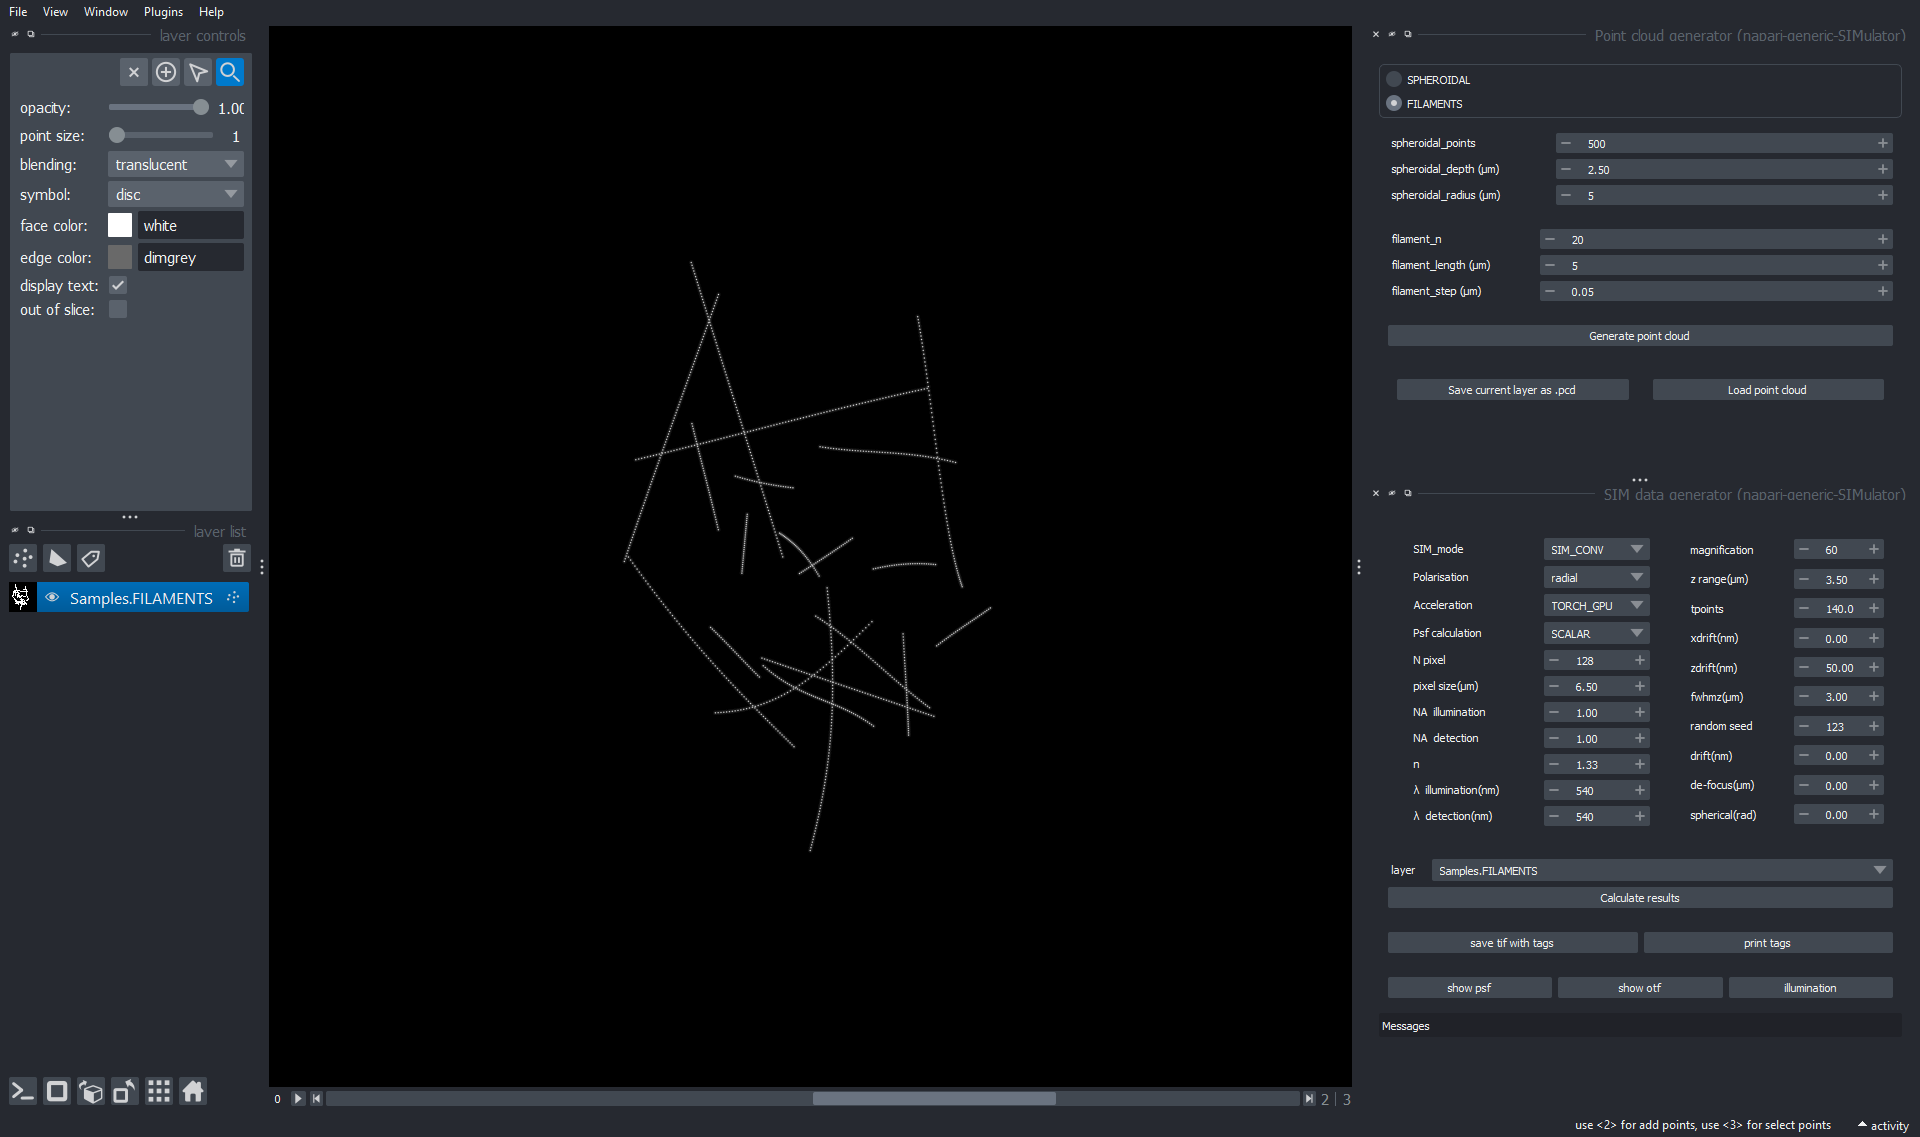
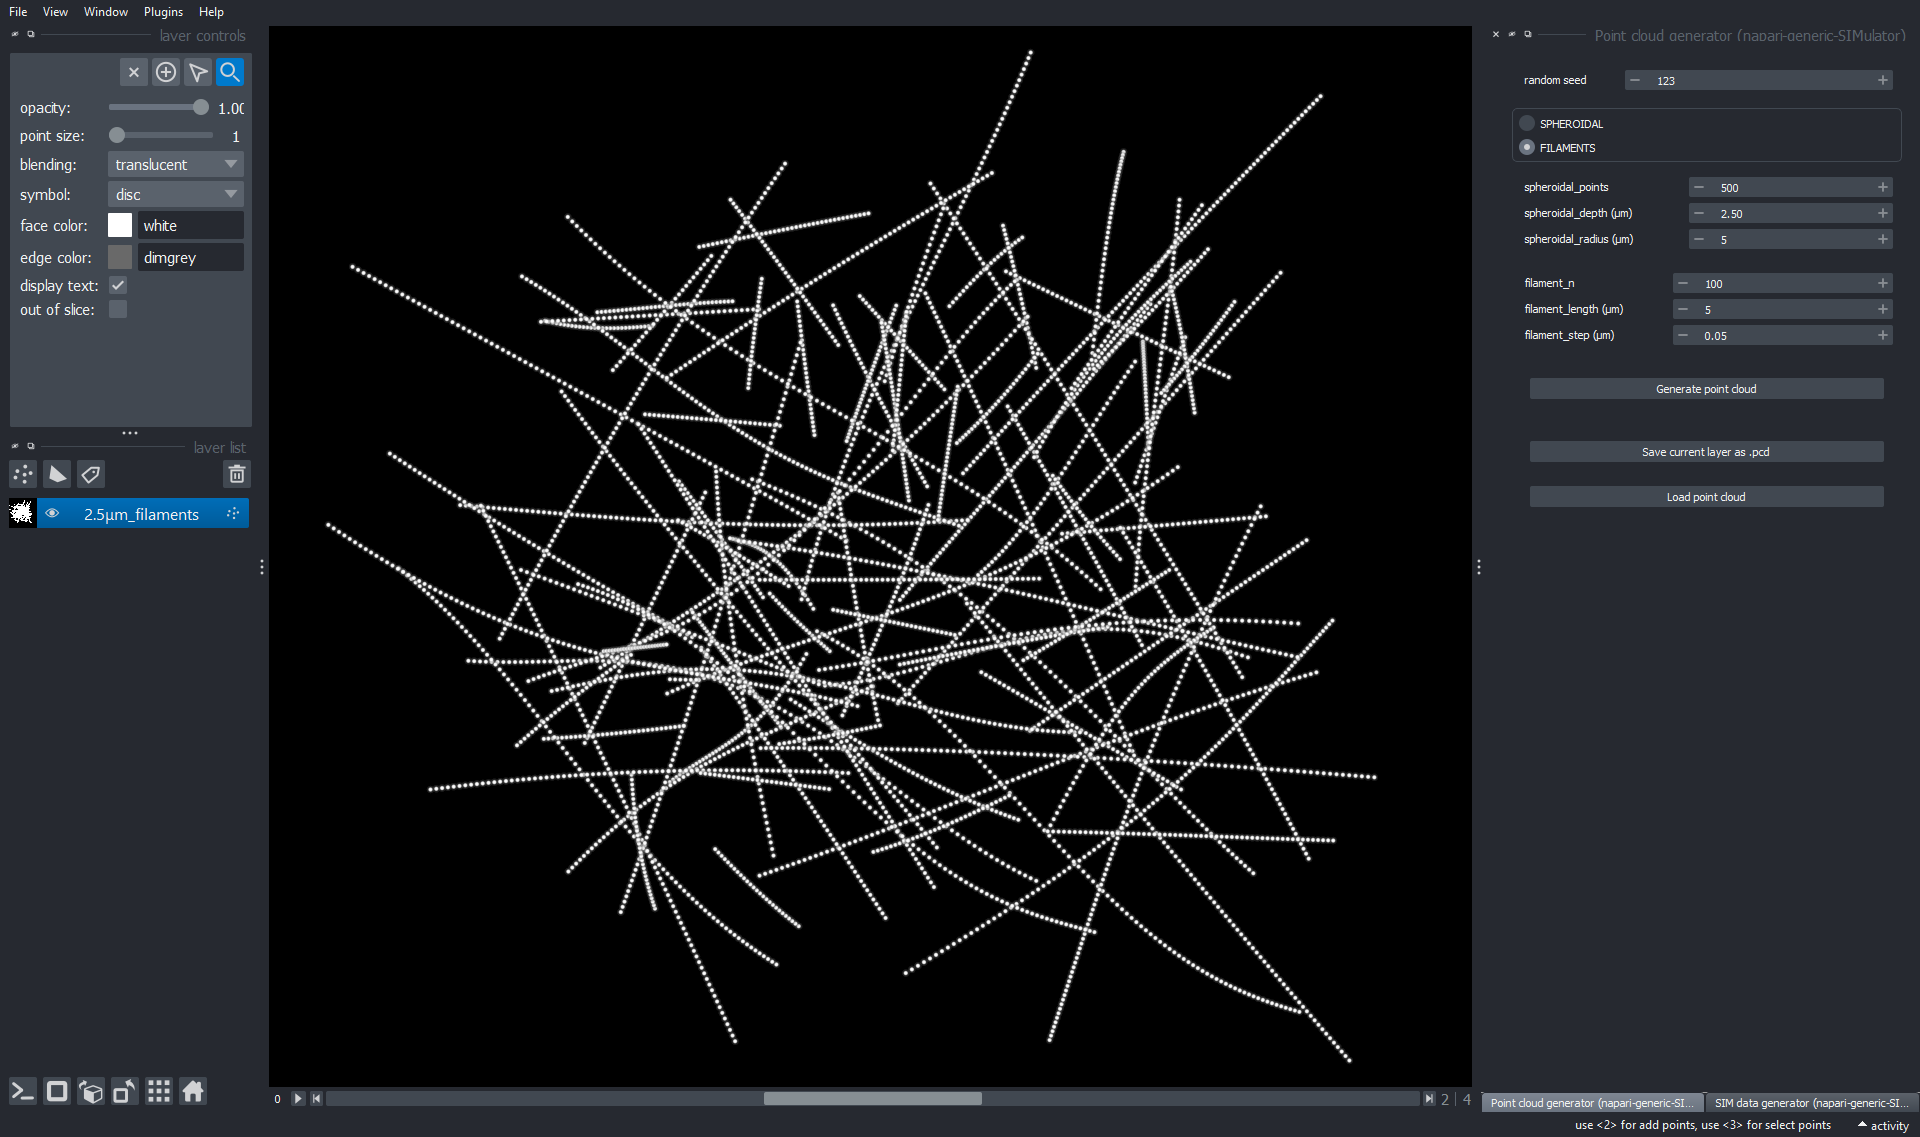
modified README.md

diff --git a/SIMulator_runner.py b/SIMulator_runner.py
@@ -7,10 +7,10 @@ if __name__ == '__main__':
 
     viewer = napari.Viewer()
 
-    point_cloud = PointCloud(viewer)
-    simulator = SIMulator(viewer)
-    w1 = viewer.window.add_dock_widget(point_cloud, name='Point cloud generator', add_vertical_stretch=True)
-    w2 = viewer.window.add_dock_widget(simulator, name='SIM data generator', add_vertical_stretch=True)
-    viewer.window._qt_window.tabifyDockWidget(w1, w2)
+    # point_cloud = PointCloud(viewer)
+    # simulator = SIMulator(viewer)
+    # w1 = viewer.window.add_dock_widget(point_cloud, name='Point cloud generator', add_vertical_stretch=True)
+    # w2 = viewer.window.add_dock_widget(simulator, name='SIM data generator', add_vertical_stretch=True)
+    # viewer.window._qt_window.tabifyDockWidget(w1, w2)
 
     napari.run()

diff --git a/README.md b/README.md
@@ -12,12 +12,13 @@ A napari plugin to simulate raw-image stacks of Structured illumination microsco
 The simulation is originally based on the paper <strong>GPU-accelerated real-time reconstruction in Python of three-dimensional datasets from structured illumination microscopy with hexagonal patterns</strong> by
 Hai Gong, Wenjun Guo and Mark A. A. Neil (https://doi.org/10.1098/rsta.2020.0162). 
 
-The calculation can be GPU-accelerated if the CUPY (tested with cupy 8.3.0) is installed. In addition, the TORCH package can complete the acceleration both on CPU if TORCH is installed, and on GPU if TORCH is compiled with the CUDA (tested with torch v1.12.0+cu116) enabled.
+The calculation can be GPU-accelerated if the CUPY (tested with cupy-cuda11x) is installed. In addition, the TORCH package can complete the acceleration both on CPU if TORCH is installed, and on GPU if TORCH is compiled with the CUDA (tested with torch v1.13.1+cu117) enabled.
 
 Currently applies to:
 - conventional 2-beam SIM data with 3 angles and 3 phases
 - 3-beam hexagonal SIM data with 7 phases, as described in the paper
 - 3-beam hexagonal SIM data with 5 phases at right-angles
+- conventional 3-beam 3-D data with 3 angles and 5 phases
 
 ----------------------------------
 
@@ -43,7 +44,7 @@ To install latest development version :
 
     pip install git+https://github.com/Meizhu-Liang/napari-generic-SIMulator.git
 
-This plugin is compatible with **napari 0.4.17**, older versions of napari would show errors in _interpolation_.
+This plugin is compatible with **napari 0.4.17** or above, older versions of napari would show errors in _interpolation_.
 
 ## Usage
 
@@ -53,7 +54,9 @@ This plugin is compatible with **napari 0.4.17**, older versions of napari would
 2) Launch two widgets: **Point cloud generator** and **SIM data generator** in ***Plugin***.
 
     ![raw](https://github.com/Meizhu-Liang/napari-generic-SIMulator/raw/main/images/lauch.png)
-    ![raw](https://github.com/Meizhu-Liang/napari-generic-SIMulator/raw/main/images/2widgets.png)
+
+   
+    ![raw](https://github.com/Meizhu-Liang/napari-generic-SIMulator/raw/main/images/2tabs.png)
 
 
 3) Choose the type and other parameters of point cloud as a sample in **Point cloud generator**.
@@ -67,9 +70,14 @@ This plugin is compatible with **napari 0.4.17**, older versions of napari would
 
 4) Adjust parameters in SIM data generator to simulate a raw image stack.
 
-    ![raw](https://github.com/Meizhu-Liang/napari-generic-SIMulator/raw/main/images/raw_stack.png)
+   Apart from basic parameters such as the refractive index, the wavelengths and so on, the z scanning can be either 
+   **z drift**: the conventional SIM (imaging a raw stack at the same z-position) or **z step**: the drifting case in 
+   the papaer mentioned above (imaging only one raw image at a z-position).
 
-    The parameters used in the simulation can be saved with the image stack by clicking **save tif with tags**. Tags (of current or of one stack dragged into napari viewer) can be printed in Python by **print tags**. 
+
+   ![raw](https://github.com/Meizhu-Liang/napari-generic-SIMulator/raw/main/images/raw_stack.png)
+
+   The parameters used in the simulation can be saved with the image stack by clicking **save tif with tags**. Tags (of current or of one stack dragged into napari viewer) can be printed in Python by **print tags**. 
 
 
 5) Three-dimensional point spread function (**PSF**), optical transfer function (**OTF**) and **illumination** patterns applied in the simulation can be showed by buttons. Note the all of these correspond the generated raw-image stack, so keep the parameters the same before showing the **PSF** (or **OTF** and **illumination**).
